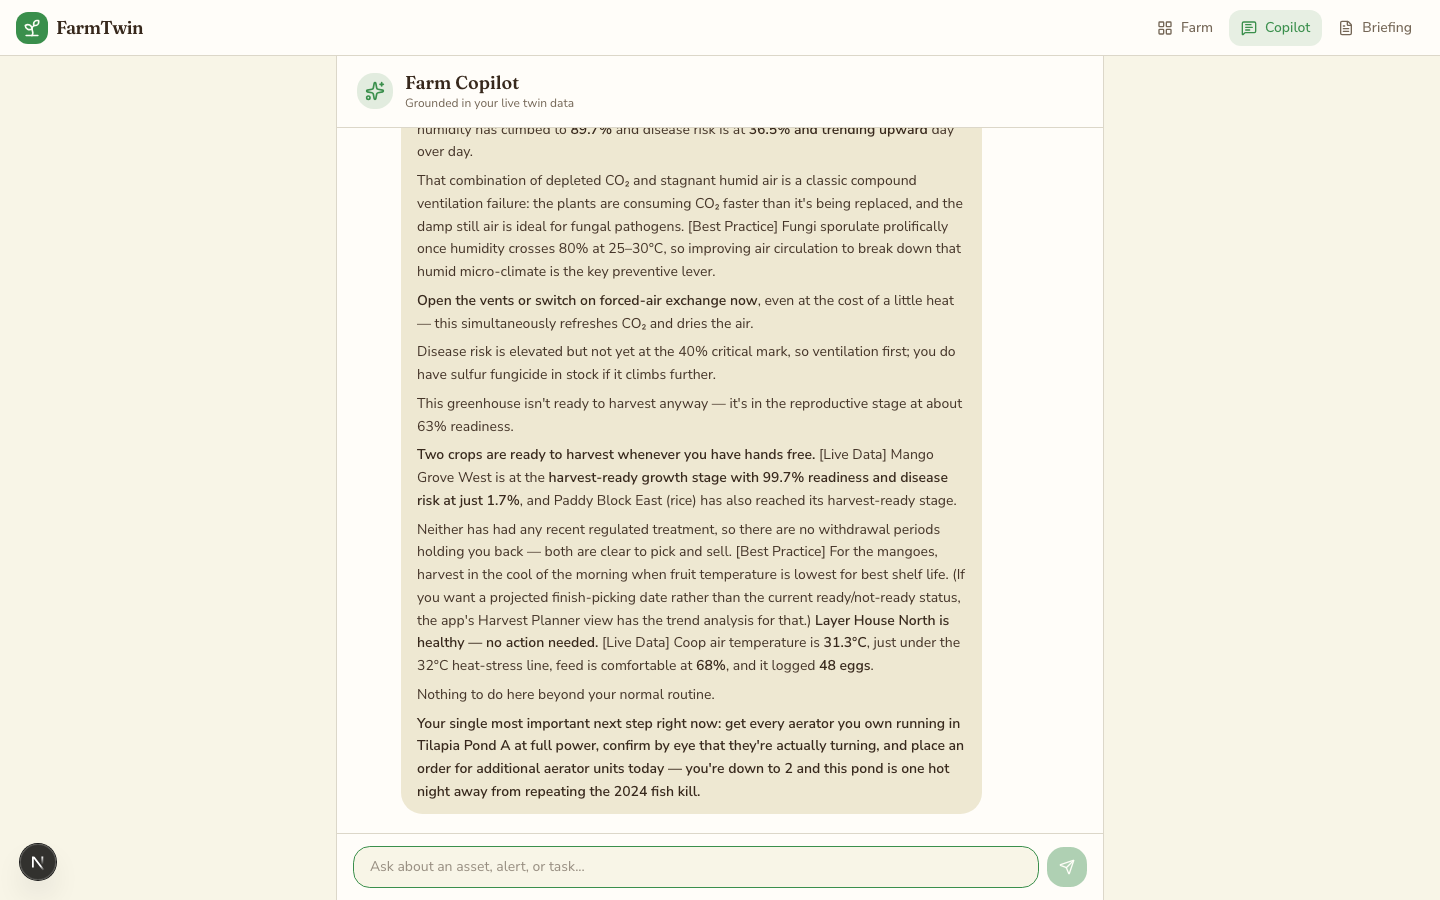
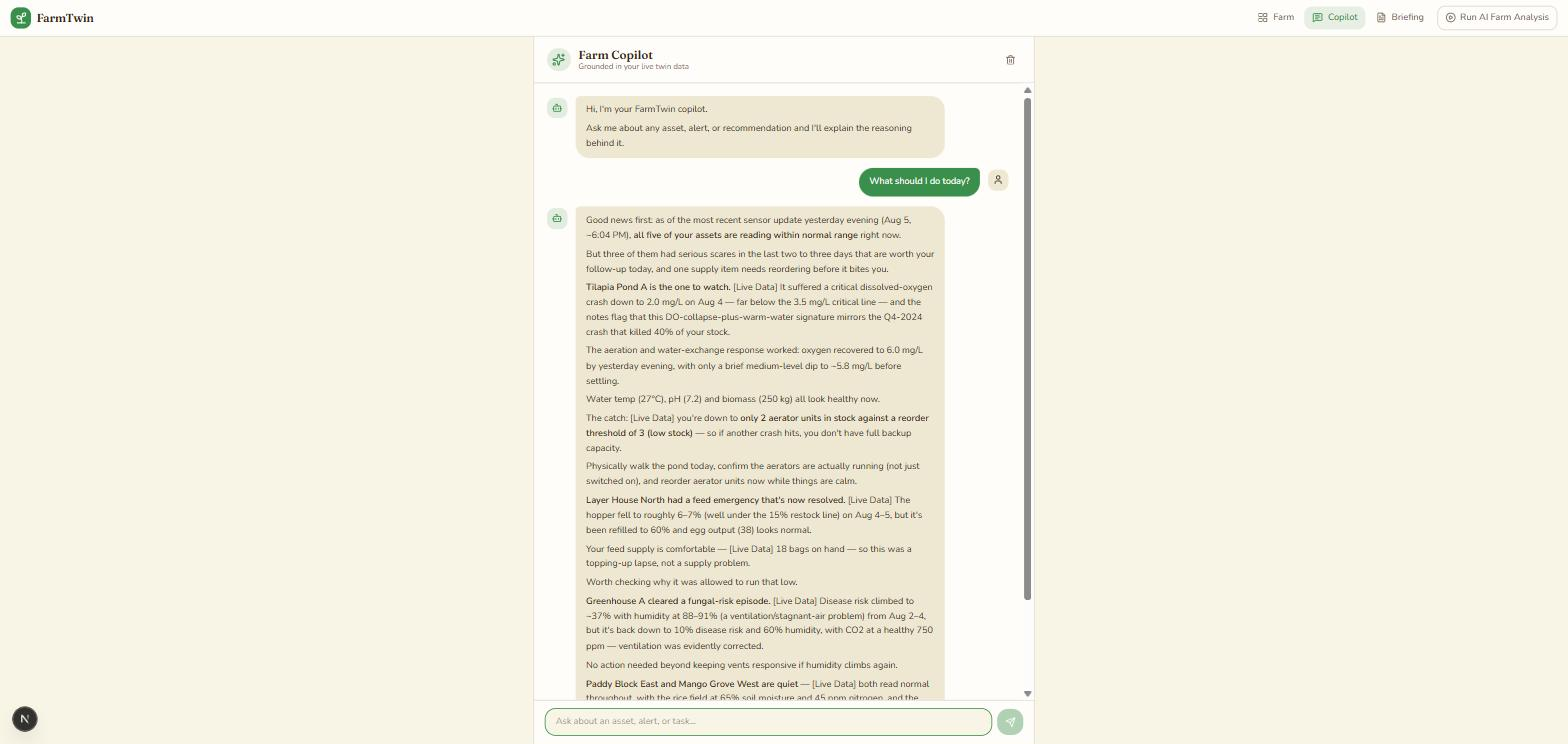
Refresh README screenshots to match current app state, trim stale Future Work items
The 3 demo screenshots predated feat-057 through feat-065 and no longer
matched what the app (or the README's own feature list) actually shows --
most visibly, the dashboard screenshot showed an active crisis while the
text already claimed a healthy 90/100 default baseline. Recaptured all 3
live against the running backend/frontend + real Snowflake account and
rewrote the captions to match. Also removed already-triaged "not planned"
Future Work items, keeping only the one genuinely open item.

diff --git a/README.md b/README.md
@@ -200,36 +200,36 @@ sequenceDiagram
 
 ## 📸 Demo
 
-> Screenshots below are real captures against a live backend + live Snowflake account (2026-07-27), not mockups.
+> Screenshots below are real captures against a live backend + live Snowflake account (2026-08-06), not mockups.
 
 <details>
 <summary><strong>Farm Overview — the living digital twin</strong></summary>
 
 ![Farm overview](docs/screenshots/farm-overview.png)
 
-Real state at capture time: 1 critical (Tilapia Pond A, dissolved oxygen crisis), 1 needs-attention (Greenhouse A, ventilation/disease risk), 3 healthy. The task list on the right is generated by the agent, not scripted.
+Real state at capture time: the healthy default baseline (feat-060) — farm health 90/100, zero active alerts, all 5 assets green, "All caught up — no tasks due today." Running a real "AI Farm Analysis" tick from here has an unscripted chance of escalating an asset, which is the actual demo moment — this is the calm before it, not a staged crisis.
 
 </details>
 
 <details>
-<summary><strong>Asset Detail — readings, AI analysis, Harvest Planner, Scenario Simulator, Yield Estimate</strong></summary>
+<summary><strong>Asset Detail — live readings, Harvest Planner, Yield Estimate, all agent-narrated</strong></summary>
 
 ![Asset detail](docs/screenshots/asset-detail.png)
 
-Greenhouse A, mid-risk: real live sensor readings, a rule-based AI Prediction, a Harvest Planner ETA ("~14.2 days until threshold"), a Scenario Simulator ready to project a what-if, and a Yield Estimate ("182 kg, 80% confidence") that explicitly ties the shortfall back to a real historical incident (the Q1-2025 whitefly outbreak) — every number on this screen is computed, not generated.
+Greenhouse A, healthy (90/100): real live sensor readings, a Harvest Planner narrative that honestly reports "readiness isn't trending upward, so no reliable ETA can be projected" rather than fabricating one, and a Yield Estimate ("273 kg, 80% confidence") computed from this asset's real 3-cycle historical average and adjusted for its current health score — every number here is computed, the agent only narrates it.
 
 </details>
 
 <details>
-<summary><strong>AI Copilot — free-form, grounded Q&A</strong></summary>
+<summary><strong>AI Copilot — free-form, grounded Q&A with real conversational memory</strong></summary>
 
 ![Copilot](docs/screenshots/copilot.png)
 
-Asked "What should I do today?" with no asset specified — the agent reasons across all 5 assets in one answer: ventilation guidance for the greenhouse, two crops confirmed ready to harvest with zero withdrawal restrictions, an all-clear on the coop, and a single prioritized next step (emergency aeration) grounded in the same 2024 fish-kill precedent shown elsewhere in the app.
+Asked "What should I do today?" with no asset specified — the agent reasons across all 5 assets in one answer: leads with the good news (all reading normal right now), then surfaces three real recent scares worth following up — Tilapia Pond A's dissolved-oxygen crash (explicitly tied to the same 2024 die-off precedent shown elsewhere in the app) plus a low aerator-stock warning, a resolved feed-hopper dip in the coop, and a resolved fungal-risk episode in the greenhouse — ending on one concrete next step. The trash icon (top right) is the real "Clear conversation" control from feat-063.
 
 </details>
 
-**Walkthrough:** Open the Farm Overview to see the live digital twin and today's AI-generated task list → click the critical Tilapia Pond A marker to see its dissolved-oxygen crisis, AI Prediction, and pending recommendations → open the Greenhouse A asset to see Harvest Planner, Scenario Simulator, and Yield Estimation working together on one screen → visit the AI Copilot and ask a free-form question to see the same farm-wide reasoning in conversational form.
+**Walkthrough:** Open the Farm Overview to see the live digital twin at its healthy baseline → click "Run AI Farm Analysis" to watch a real tick and see whether it escalates an asset → open any asset to see Harvest Planner and Yield Estimation working together on real sensor data → visit the AI Copilot and ask a free-form question to see the same farm-wide reasoning in conversational form.
 
 ---
 
@@ -377,15 +377,9 @@ The single biggest architectural decision in this project: should the Cortex Age
 
 ## 🛣 Future Work
 
-Every item originally on the roadmap has been triaged — most were deliberately **not** built, for reasons worth keeping on record:
-
-- [x] **Yield Estimation** — shipped: health-adjusted next-cycle yield projection from real historical harvest data, all 5 asset types
-- [ ] ~~Disease prediction~~ — not planned: already covered by existing trend projection + Scenario Simulator
-- [ ] ~~Cost optimization~~ — not planned: no cost/$ data exists anywhere in the schema yet
-- [ ] ~~Resource planning~~ — not planned: would duplicate the existing live-data query tool under a new name
-- [ ] ~~Water-usage optimization~~ — not planned: needs volume-tracked irrigation data this build doesn't simulate yet
-- [ ] ~~Autonomous daily planning~~ — **actively avoided**: would contradict the human-approval-loop design this product is built around
 - [ ] A Scenario-Simulator-aware guardrail in Copilot chat, matching the one Harvest Planner already has, so the agent explicitly defers "what if" questions to the dedicated view instead of reasoning about them ungrounded
+
+Everything else originally on the roadmap (disease prediction, cost optimization, resource planning, water-usage optimization, autonomous daily planning) was triaged and deliberately **not** built — see the Innovation and Challenges sections above for why those calls were made.
 
 ---
 

diff --git a/progress.md b/progress.md
@@ -2,7 +2,37 @@
 
 ## Current Verified State
 
-- Last Updated: 2026-08-06
+- Last Updated: 2026-08-07
+- **Session 040, doc update (2026-08-07): refreshed README.md screenshots and
+  captions, no app/feature change.** The 3 demo screenshots (farm-overview,
+  asset-detail, copilot) were captured 2026-07-27/08-03, before feat-057
+  through feat-065 shipped, and had drifted from reality -- most visibly,
+  farm-overview.png showed "1 critical, 1 needs-attention" while the
+  README's own feature list already claimed the app opens on a healthy
+  90/100 baseline (feat-060). Recaptured all 3 live against the running
+  backend + frontend + real Snowflake account (backend started via
+  `venv/Scripts/python.exe -m uvicorn`, frontend via `npm run dev`, browser
+  automation via claude-in-chrome) rather than editing captions to match
+  stale images: farm-overview now shows the real healthy baseline;
+  asset-detail shows Greenhouse A's real live Harvest Planner narrative
+  (honestly reporting no projectable ETA yet, since readiness isn't
+  trending) and a real Yield Estimate (273 kg, 80% confidence) computed
+  from its actual 3-cycle historical average; copilot shows a real
+  "What should I do today?" answer citing live per-asset data plus the
+  feat-063 "Clear conversation" control. Note for future screenshot
+  sessions: the frontend's demo-passcode UI (`useGatedAction`) always
+  prompts for a passcode on first reveal regardless of whether
+  `DEMO_PASSCODE` is actually set server-side (it's unset in this repo's
+  local `.env`, so the backend gate itself is a no-op) -- worked around by
+  writing a dummy token directly into `localStorage['farmtwin_demo_token']`
+  rather than fighting the passcode prompt, since the backend never
+  validates it when the gate is disabled. Also trimmed the Future Work
+  section: removed the already-triaged "not planned" / "actively avoided"
+  items and the shipped Yield Estimation line (settled decisions, not open
+  roadmap items -- still explained in Innovation/Challenges), keeping only
+  the one genuinely unimplemented item (Scenario-Simulator-aware Copilot
+  guardrail, confirmed absent from the backend by grep). Not logged as a
+  feature_list.json entry -- documentation only, no app behavior changed.
 - **Session 039 continued (2026-08-06): implemented and live-verified
   feat-065 -- fixed stale "AI Prediction" data surfacing on healthy assets.**
   User reported an asset's AI Prediction card "looking wrong." Investigated
